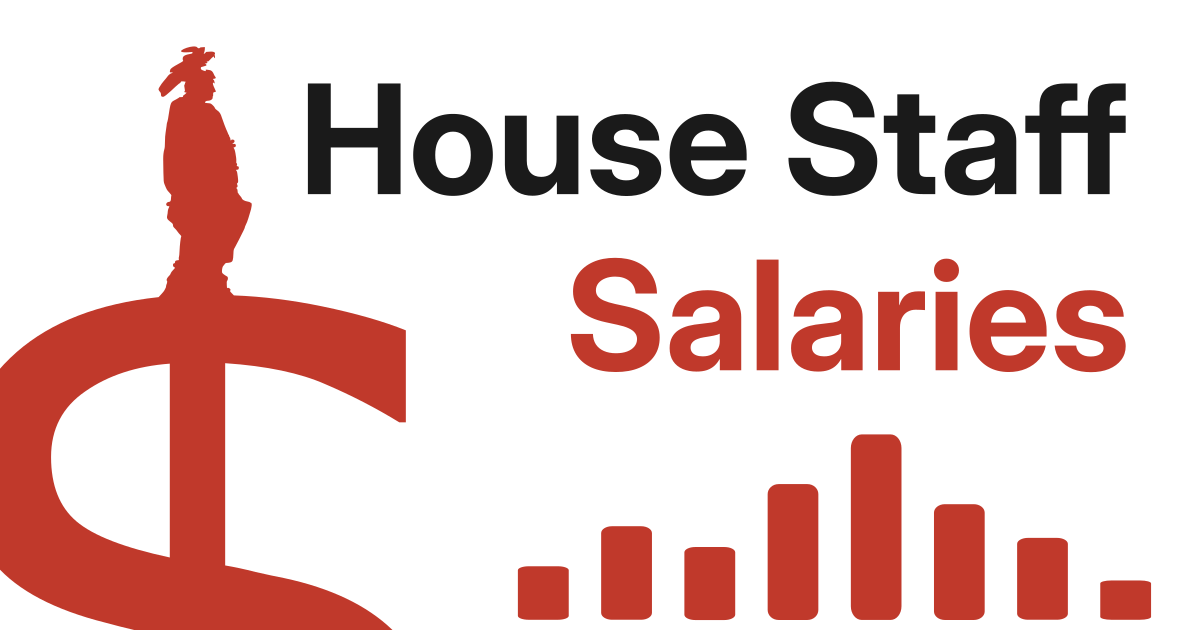
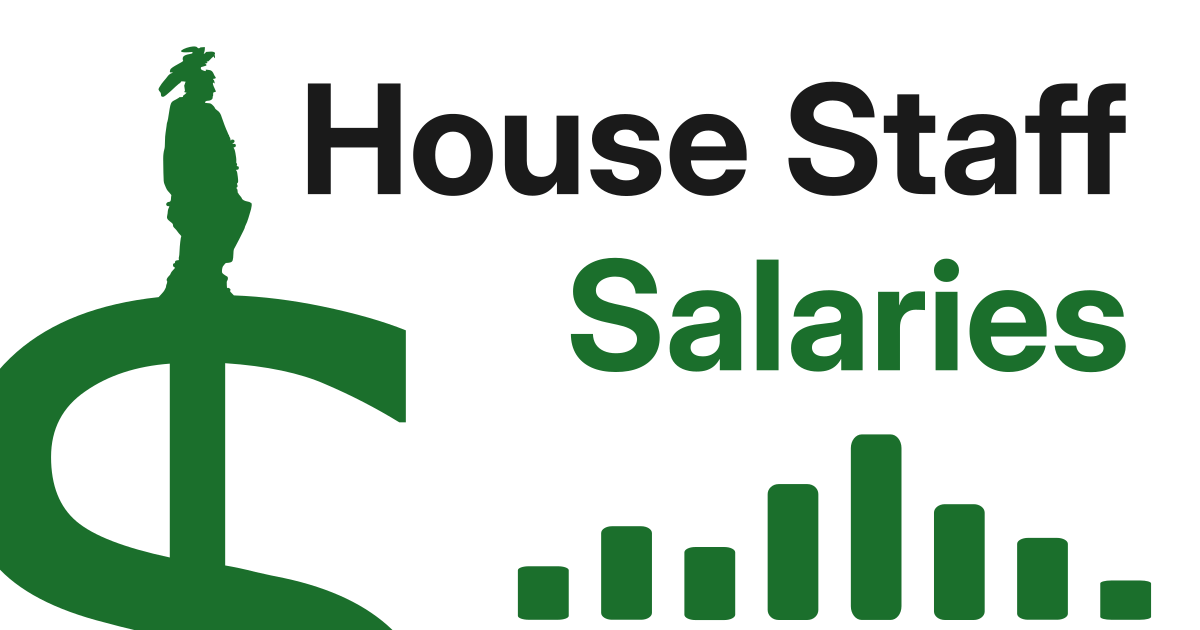
Switch accent color from red to green (nonpartisan, reads as money)
Red/blue carry party connotations in US politics even unintentionally;
green is neutral and fits a salary-transparency site. Picked #1b6f2c
over the alternative #059669 after checking contrast — 6.26:1 on white
vs. 059669's 3.77:1, which fails AA for the small text sizes this
color is used at (labels, sort highlights, error text).

Updated everywhere the old #c0392b was hardcoded, not just the CSS
--accent variable: SVG-generated chart colors in app.js (trend lines,
dots, highlight markers), the distribution-bar color ramp (now a green
gradient instead of red), and the embedded fill color in favicon.svg/
.ico/.png, logo-mark.svg, and social.png (recolored the raster images
with Pillow — a direct swap for the transparent favicon, a hue-
preserving blend-toward-white remap for social.png's anti-aliased
edges so they don't come out flat). Added cache-busting query params
to the favicon/logo/social image references so browsers don't keep
serving the old red versions from cache indefinitely.

Changed region(s): [[0.0, 0.0603, 0.3392, 1.0], [0.4317, 0.6635, 0.9867, 0.9952], [0.4625, 0.3921, 0.9558, 0.6032]]

diff --git a/app.js b/app.js
@@ -456,9 +456,9 @@ function renderDist() {
     : q.distribution;
   const barColors = dist.map(b => {
     if (b.min < 50000)  return "#e8e5df";
-    if (b.min < 80000)  return "#f4a69a";
-    if (b.min < 130000) return "#c0392b";
-    return "#8b1a12";
+    if (b.min < 80000)  return "#95cd9e";
+    if (b.min < 130000) return "#1b6f2c";
+    return "#0e3d1a";
   });
 
   const W = 680, H = 280;
@@ -640,7 +640,7 @@ function renderTrend() {
 
   if (trendMode === "overall") {
     drawSvgLineChart($("chart-trend"), labels, [{
-      id: "overall", label: METRIC_LABELS[trendMetric], color: "#c0392b", fill: true,
+      id: "overall", label: METRIC_LABELS[trendMetric], color: "#1b6f2c", fill: true,
       data: allQs.map(q => { const aq = adjQuarter(q); return officeTypeFilter ? (aq.by_type[officeTypeFilter]?.[trendMetric] ?? null) : aq.overall[trendMetric]; }),
     }], hlOpts);
 
@@ -1767,8 +1767,8 @@ function buildTrendChartBody(labels, datasets, yMin, yMax, highlightLabel, xs = 
   const hlIdx = highlightLabel != null ? labels.indexOf(highlightLabel) : -1;
   const hlLine = hlIdx >= 0 ? (() => {
     const x = sx(hlIdx).toFixed(1);
-    return `<line x1="${x}" x2="${x}" y1="${pad.t}" y2="${pad.t + ph}" stroke="#c0392b" stroke-width="1.5" stroke-dasharray="4 3" opacity=".5"/>
-            <text x="${x}" y="${(pad.t - 4).toFixed(1)}" text-anchor="middle" font-size="9" fill="#c0392b" opacity=".8">${labels[hlIdx]}</text>`;
+    return `<line x1="${x}" x2="${x}" y1="${pad.t}" y2="${pad.t + ph}" stroke="#1b6f2c" stroke-width="1.5" stroke-dasharray="4 3" opacity=".5"/>
+            <text x="${x}" y="${(pad.t - 4).toFixed(1)}" text-anchor="middle" font-size="9" fill="#1b6f2c" opacity=".8">${labels[hlIdx]}</text>`;
   })() : "";
 
   return { svgBody: `${yTicks}${hlLine}${pathEls}${trendEls}${xLabels}${soloAnnot}`, W, H, pad, ph, sx };
@@ -2143,12 +2143,12 @@ function svgSparkline(data, labels, annualMultiplier = 4, excludeIndexFromTrend 
   const fills = segs.map(s => {
     if (s.length < 2) return "";
     const d = s.map((p, j) => `${j ? "L" : "M"}${p[0].toFixed(1)},${p[1].toFixed(1)}`).join(" ");
-    return `<path d="${d} L${s[s.length-1][0].toFixed(1)},${(pad.t+ph).toFixed(1)} L${s[0][0].toFixed(1)},${(pad.t+ph).toFixed(1)} Z" fill="rgba(192,57,43,.07)" stroke="none"/>`;
+    return `<path d="${d} L${s[s.length-1][0].toFixed(1)},${(pad.t+ph).toFixed(1)} L${s[0][0].toFixed(1)},${(pad.t+ph).toFixed(1)} Z" fill="rgba(27,111,44,.07)" stroke="none"/>`;
   }).join("");
 
   const lines = segs.map(s => {
     const d = s.map((p, j) => `${j ? "L" : "M"}${p[0].toFixed(1)},${p[1].toFixed(1)}`).join(" ");
-    return `<path d="${d}" fill="none" stroke="#c0392b" stroke-width="1.5" stroke-linejoin="round" stroke-linecap="round"/>`;
+    return `<path d="${d}" fill="none" stroke="#1b6f2c" stroke-width="1.5" stroke-linejoin="round" stroke-linecap="round"/>`;
   }).join("");
 
   // Hover hit-area is a full-height vertical band around each point, not just
@@ -2158,7 +2158,7 @@ function svgSparkline(data, labels, annualMultiplier = 4, excludeIndexFromTrend 
   // tooltip (see setupSparklineTooltips) shared with the rest of the charts.
   const bandW = Math.max(16, Math.min(40, pw / Math.max(data.length - 1, 1)));
   const dots = valid.map(({ v, i }) =>
-    `<circle class="spark-dot" cx="${sx(i).toFixed(1)}" cy="${sy(v).toFixed(1)}" r="4" fill="white" stroke="#c0392b" stroke-width="2"/>
+    `<circle class="spark-dot" cx="${sx(i).toFixed(1)}" cy="${sy(v).toFixed(1)}" r="4" fill="white" stroke="#1b6f2c" stroke-width="2"/>
      <rect class="spark-hit" x="${(sx(i) - bandW / 2).toFixed(1)}" y="${pad.t}" width="${bandW.toFixed(1)}" height="${ph}" fill="transparent"
        style="cursor:crosshair" data-label="${labels[i]}" data-value="$${Math.round(v).toLocaleString()}"/>`
   ).join("");
@@ -2226,19 +2226,19 @@ function buildSparklineFrame(fullLabels, fullData, xs, opacities) {
   const fills = segs.map(s => {
     if (s.length < 2) return "";
     const d = s.map((p, j) => `${j ? "L" : "M"}${p[0].toFixed(1)},${p[1].toFixed(1)}`).join(" ");
-    return `<path d="${d} L${s[s.length-1][0].toFixed(1)},${(pad.t+ph).toFixed(1)} L${s[0][0].toFixed(1)},${(pad.t+ph).toFixed(1)} Z" fill="rgba(192,57,43,.07)" stroke="none"/>`;
+    return `<path d="${d} L${s[s.length-1][0].toFixed(1)},${(pad.t+ph).toFixed(1)} L${s[0][0].toFixed(1)},${(pad.t+ph).toFixed(1)} Z" fill="rgba(27,111,44,.07)" stroke="none"/>`;
   }).join("");
 
   const lines = segs.map(s => {
     const d = s.map((p, j) => `${j ? "L" : "M"}${p[0].toFixed(1)},${p[1].toFixed(1)}`).join(" ");
-    return `<path d="${d}" fill="none" stroke="#c0392b" stroke-width="1.5" stroke-linejoin="round" stroke-linecap="round"/>`;
+    return `<path d="${d}" fill="none" stroke="#1b6f2c" stroke-width="1.5" stroke-linejoin="round" stroke-linecap="round"/>`;
   }).join("");
 
   const dots = fullData.map((v, i) => {
     if (v == null) return "";
     const o = op(i);
     if (o <= 0.02) return "";
-    return `<circle cx="${sx(i).toFixed(1)}" cy="${sy(v).toFixed(1)}" r="4" fill="white" stroke="#c0392b" stroke-width="2" opacity="${o.toFixed(2)}"/>`;
+    return `<circle cx="${sx(i).toFixed(1)}" cy="${sy(v).toFixed(1)}" r="4" fill="white" stroke="#1b6f2c" stroke-width="2" opacity="${o.toFixed(2)}"/>`;
   }).join("");
 
   return `<svg viewBox="0 0 ${W} ${H}" xmlns="http://www.w3.org/2000/svg" style="width:100%;height:100%">${yTicks}${fills}${lines}${dots}</svg>`;

diff --git a/index.html b/index.html
@@ -9,15 +9,15 @@
   <meta property="og:title" content="House Staff Salaries" />
   <meta property="og:description" content="Salary data for U.S. House of Representatives staff." />
   <meta property="og:url" content="https://house-salaries.evanhollander.org/" />
-  <meta property="og:image" content="https://house-salaries.evanhollander.org/social.png" />
+  <meta property="og:image" content="https://house-salaries.evanhollander.org/social.png?v=20260715ag" />
   <meta name="twitter:card" content="summary_large_image" />
   <meta name="twitter:title" content="House Staff Salaries" />
   <meta name="twitter:description" content="Salary data for U.S. House of Representatives staff." />
-  <meta name="twitter:image" content="https://house-salaries.evanhollander.org/social.png" />
-  <link rel="icon" href="favicon.ico" sizes="any" />
-  <link rel="icon" type="image/svg+xml" href="favicon.svg" />
-  <link rel="apple-touch-icon" href="favicon.png" />
-  <link rel="stylesheet" href="styles.css?v=20260715af" />
+  <meta name="twitter:image" content="https://house-salaries.evanhollander.org/social.png?v=20260715ag" />
+  <link rel="icon" href="favicon.ico?v=20260715ag" sizes="any" />
+  <link rel="icon" type="image/svg+xml" href="favicon.svg?v=20260715ag" />
+  <link rel="apple-touch-icon" href="favicon.png?v=20260715ag" />
+  <link rel="stylesheet" href="styles.css?v=20260715ag" />
 </head>
 <body>
 
@@ -28,7 +28,7 @@
 
   <div class="hero">
     <div class="hero-top">
-      <h1 class="hero-title"><span class="logo-mark" aria-hidden="true"><img class="logo-mark-img" src="logo-mark.svg" alt="" /></span>House Staff <span>Salaries</span></h1>
+      <h1 class="hero-title"><span class="logo-mark" aria-hidden="true"><img class="logo-mark-img" src="logo-mark.svg?v=20260715ag" alt="" /></span>House Staff <span>Salaries</span></h1>
       <button id="suggest-fab" aria-label="Open suggestion box">Suggestion Box</button>
     </div>
     <div class="hero-stats">
@@ -263,6 +263,6 @@
   </div>
 </div>
 
-<script src="app.js?v=20260715af"></script>
+<script src="app.js?v=20260715ag"></script>
 </body>
 </html>

diff --git a/styles.css b/styles.css
@@ -18,8 +18,8 @@ button, input, select, textarea { font-family: inherit; font-size: inherit; }
   --ink:    #111111;
   --ink2:   #444444;
   --ink3:   #888888;
-  --accent: #c0392b;      /* warm red — distinct, not techy */
-  --accent2: #f9ebe9;
+  --accent: #1b6f2c;      /* green — nonpartisan, reads as money */
+  --accent2: #e8f3e9;
   --text:   #111111;
 }
 
@@ -326,7 +326,7 @@ body {
 .mini-pill:not(.active):hover, .mini-q:not(.active):hover { border-color: var(--ink); color: var(--ink); }
 .mini-chart-wrap { position: relative; height: 200px; }
 .spark-dot { transition: fill 100ms ease, r 100ms ease; }
-.spark-dot.spark-dot-active { fill: #c0392b; r: 5; }
+.spark-dot.spark-dot-active { fill: var(--accent); r: 5; }
 
 /* ── Main trend quarter filter ── */
 .trend-q-row { display: flex; align-items: center; gap: 6px; margin-bottom: 10px; flex-wrap: wrap; }
